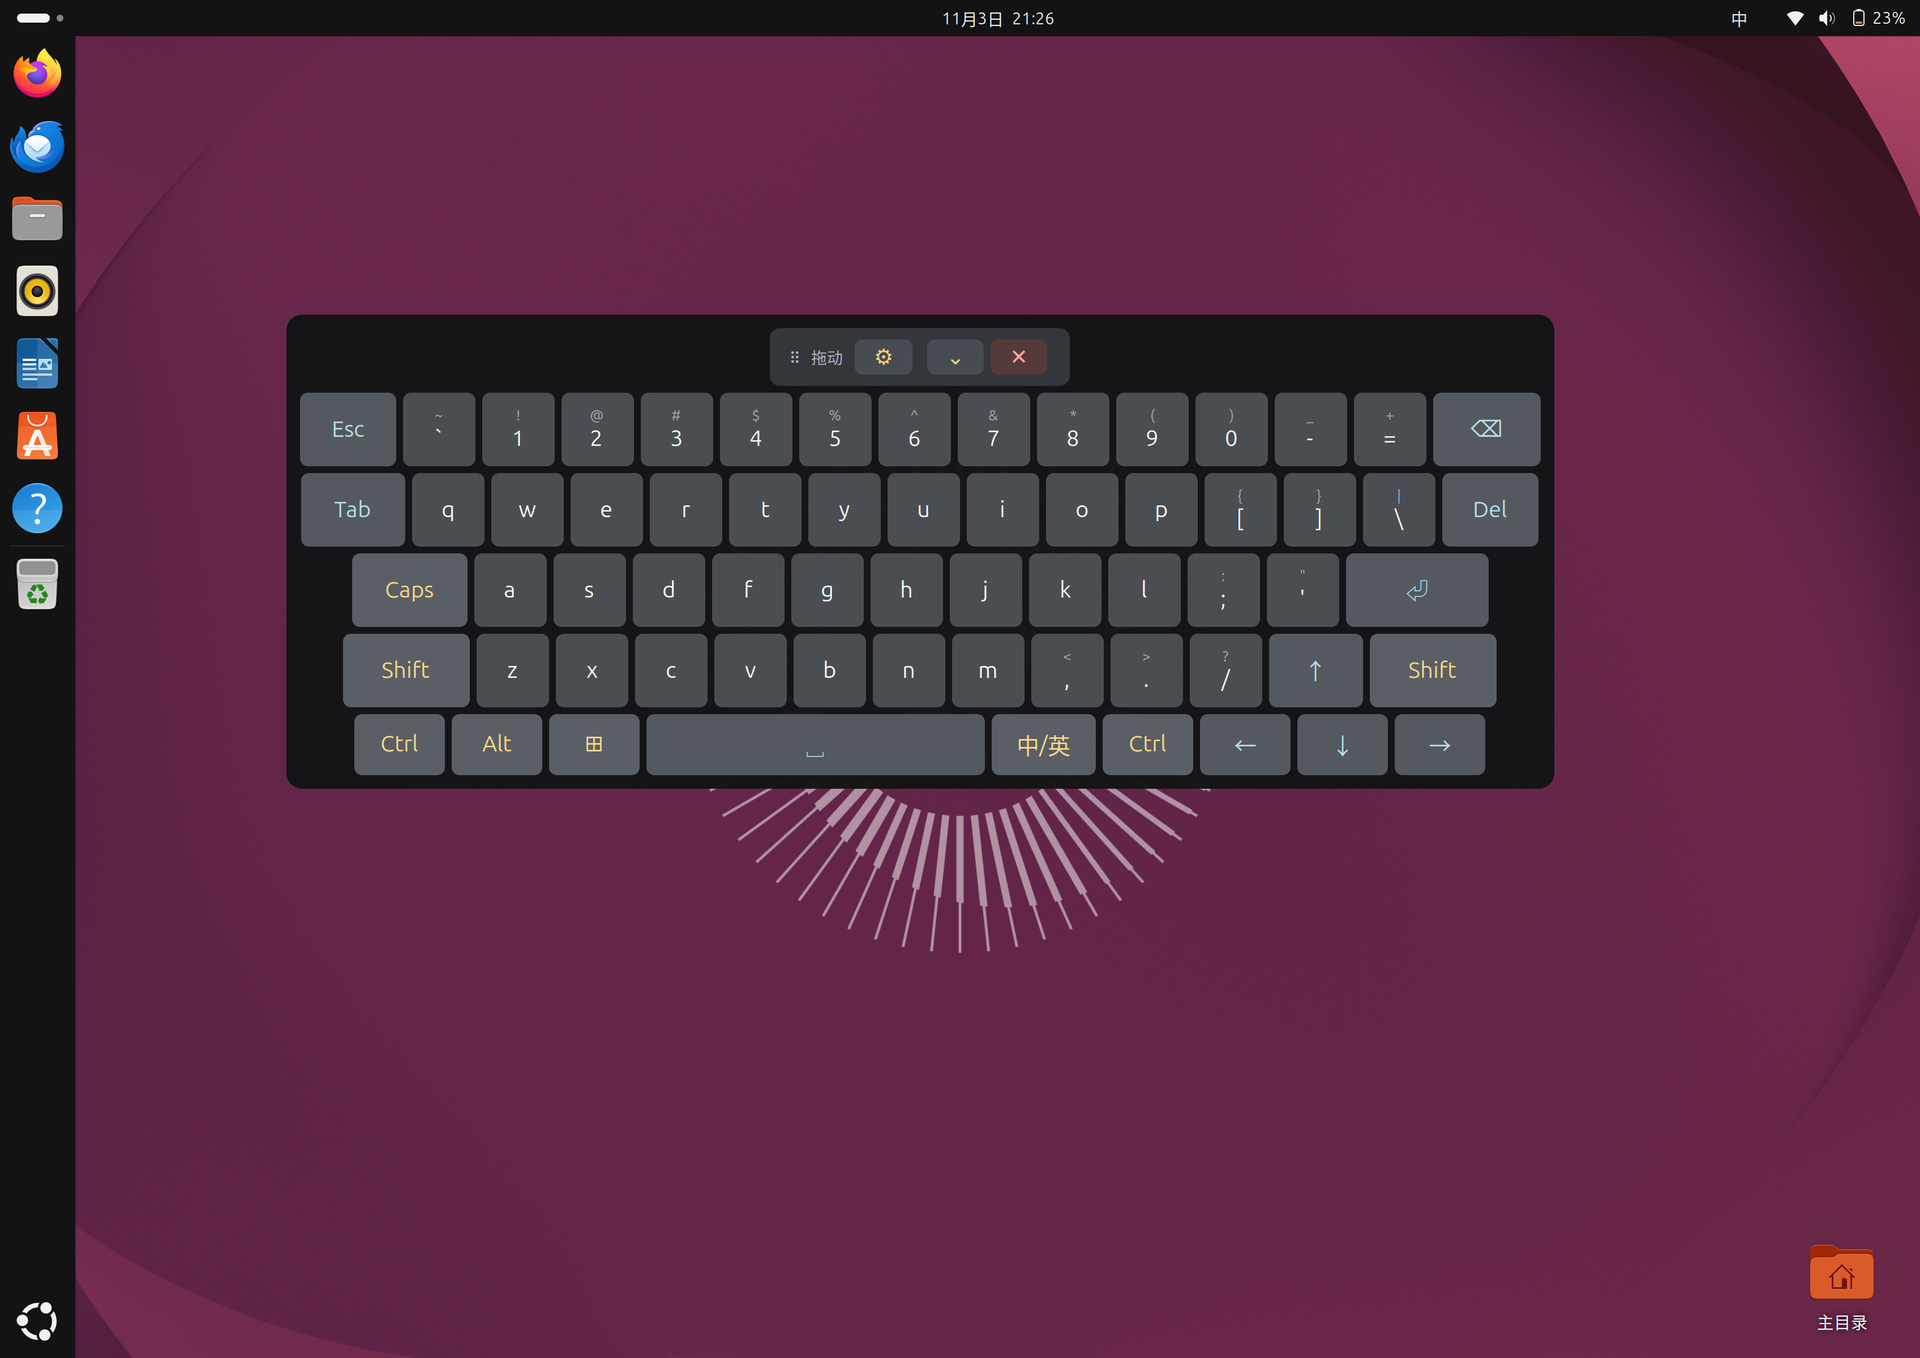
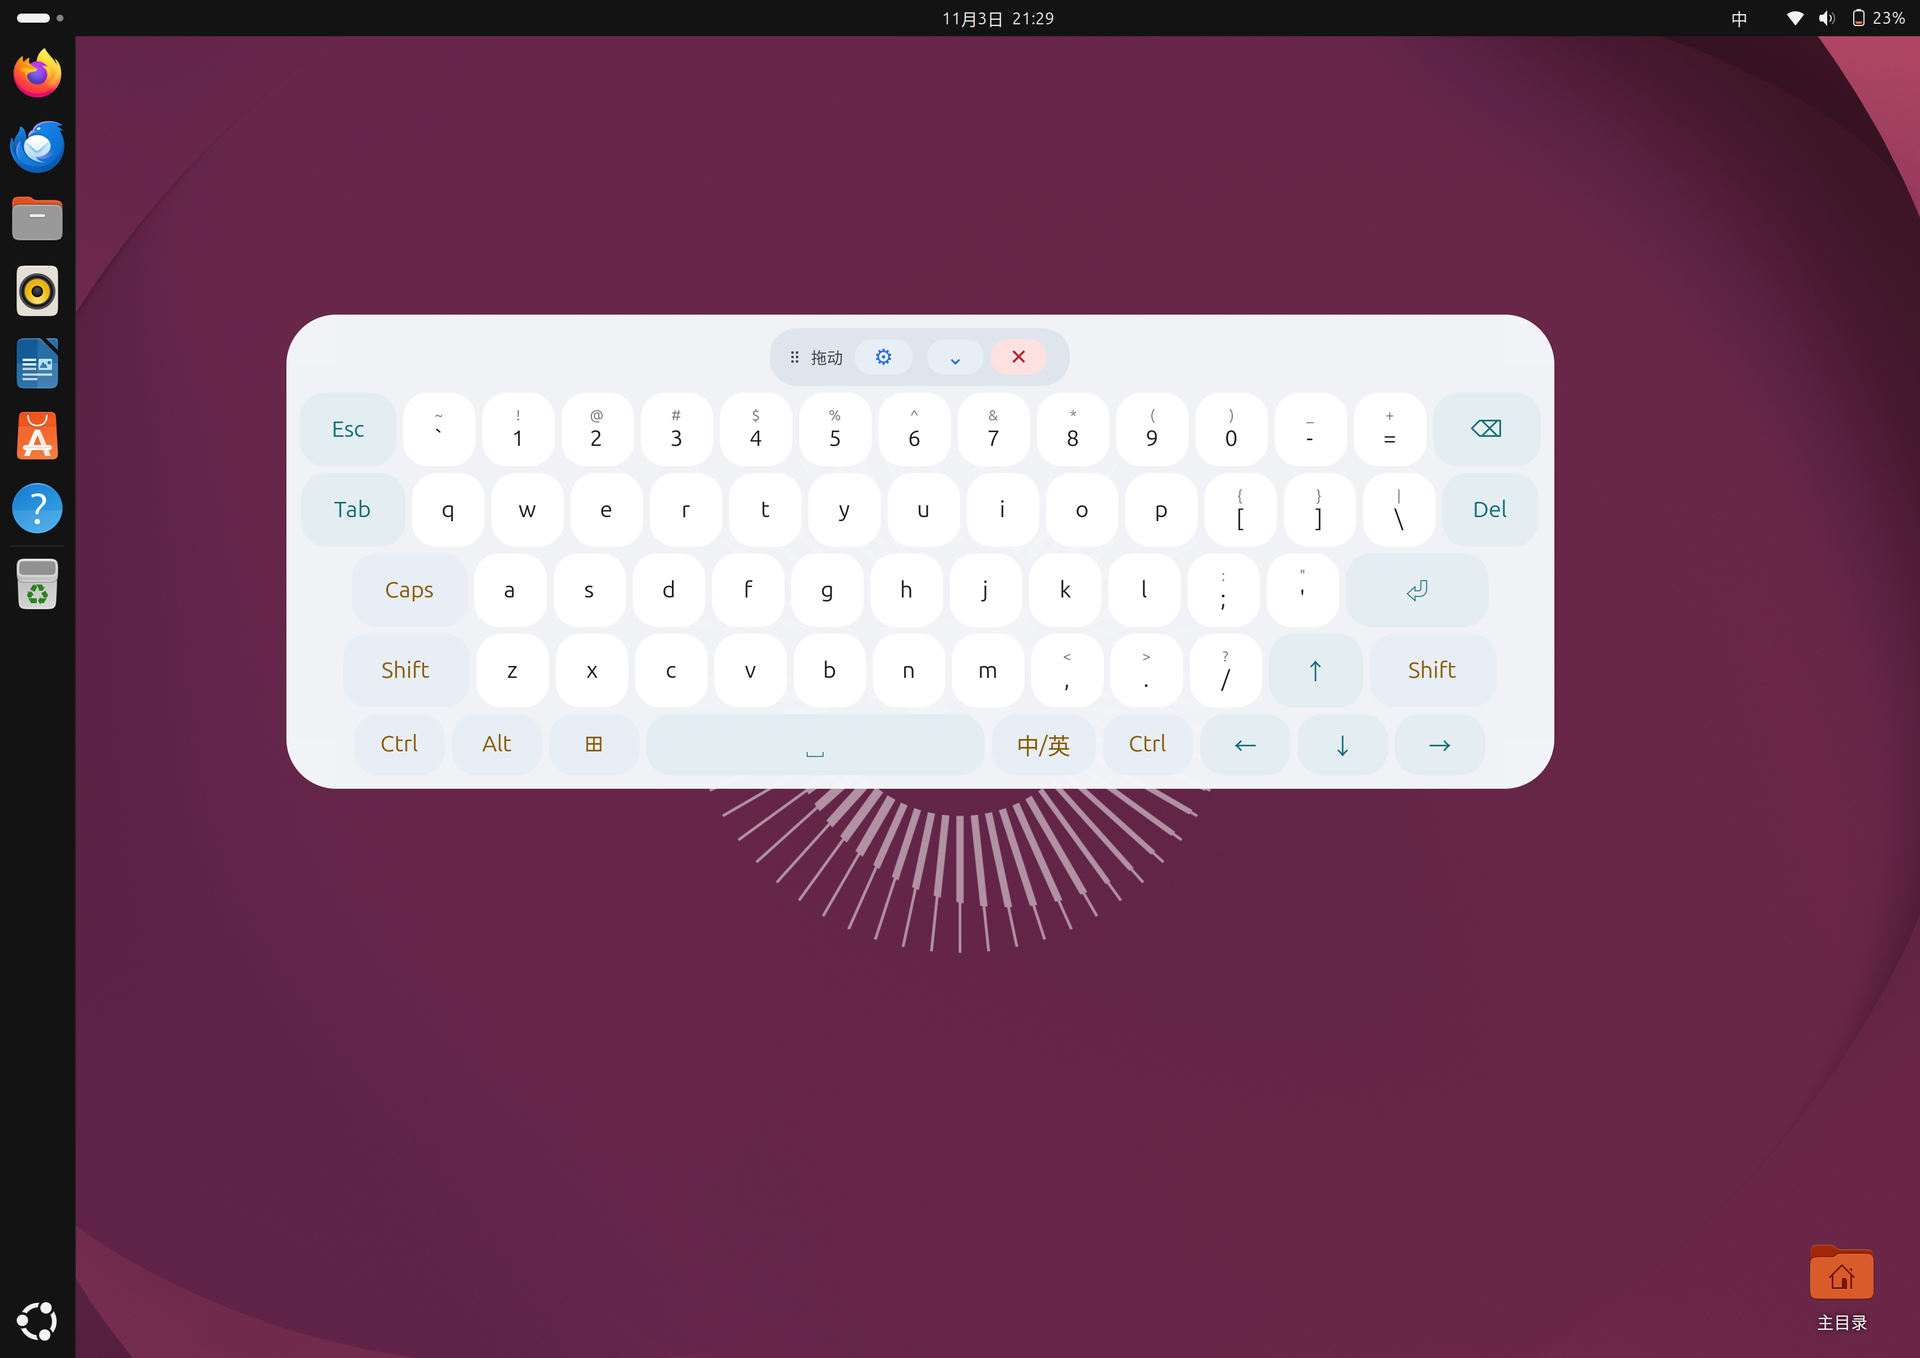
docs: shoot the size steps in the light palette

Changed region(s): [[0.125, 0.2165, 0.8125, 0.5876]]

diff --git a/README.md b/README.md
@@ -286,7 +286,7 @@ background=/home/user/图片/星空.webp
 |---|---|---|
 | ![小](docs/images/keyboard-v1.0-size-small.png) | ![中](docs/images/keyboard-v1.0-size-medium.png) | ![大](docs/images/keyboard-v1.0-size-large.png) |
 
-三张都是同一套外观（深灰、100% 透明、圆角小、无背景），差别只在尺寸。
+三张都是同一套外观（浅色、100% 透明、圆角大、无背景），差别只在尺寸。
 
 ## 安装
 
